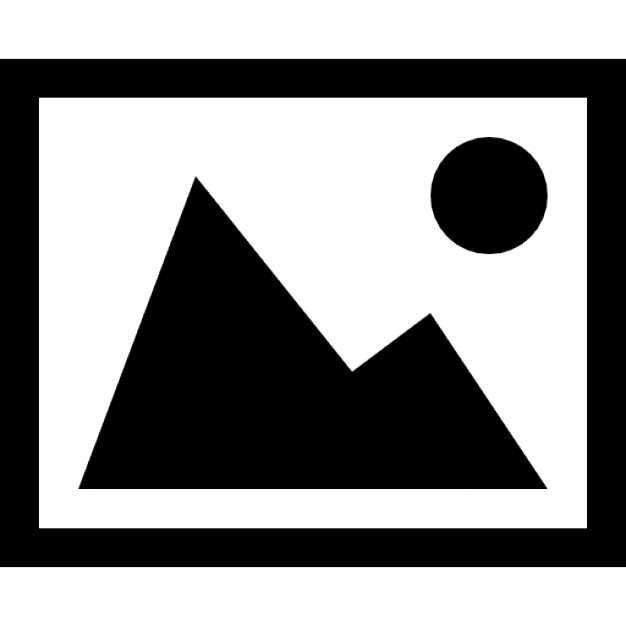
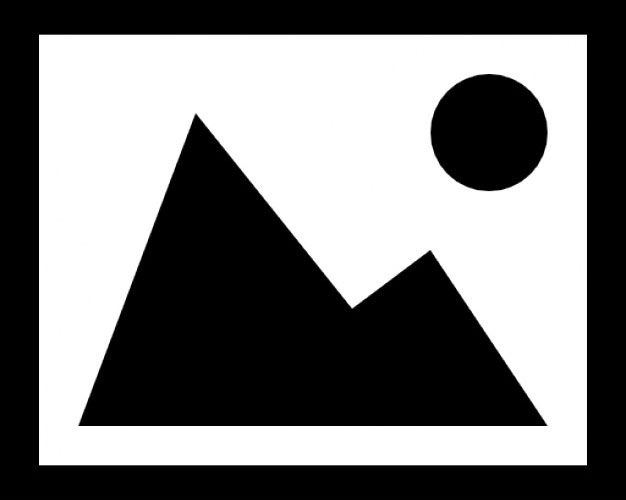
galerias

diff --git a/src/screens/galeria/index.js b/src/screens/galeria/index.js
@@ -1,11 +1,90 @@
-import React from 'react';
-import { View, Text } from 'react-native';
+import React, { useState } from 'react';
+import { View, Modal, TouchableOpacity } from 'react-native';
+import { SliderBox } from "react-native-image-slider-box";
+import { FontAwesome5 } from '@expo/vector-icons';
+import ImageZoom from 'react-native-image-zoom-viewer';
+
+// Componentes
+import Container from '../../components/container';
 
 function Galeria() {
+	const [visibleModal, setVisibleModal] = useState(false);
+	const [zoomImagen, setZoomImagen] = useState([]);
+
+	const EmptyImage = require('../../../assets/picture_icon.png');
+
+	const imagenes = [EmptyImage, EmptyImage, {uri: 'https://as.com/meristation/imagenes/2019/06/10/betech/1560195710_365328_1560195771_noticia_normal.jpg'}];
+
 	return (
-		<View style={{ flex: 1, alignItems: 'center', justifyContent: 'center' }}>
-			<Text>Galería</Text>
-		</View>
+		<Container>
+			<View style={{ flex: 1, alignItems: 'center', justifyContent: 'center' }}>
+				<SliderBox
+					onCurrentImagePressed={(index) => {
+						const imgRender = imagenes[index];
+						console.log('imagen', imgRender);
+						const imgSource = imgRender.uri ? [
+							{
+								url: imgRender.uri,
+							}
+						] : [
+							{
+								url: '',
+								props: {
+									// Or you can set source directory.
+									source: imgRender
+								}
+							}
+						]
+						setZoomImagen(imgSource)
+						setVisibleModal(true);
+					}}
+					images={imagenes}
+					dotColor={"#000"}
+					inactiveDotColor="#BBBBBB"
+					imageLoadingColor={"#000"}
+					paginationBoxVerticalPadding={20}
+					resizeMethod={'resize'}
+					resizeMode={'contain'}
+					paginationBoxStyle={{
+						position: "absolute",
+						bottom: 0,
+						padding: 0,
+						alignItems: "center",
+						alignSelf: "center",
+						justifyContent: "center",
+						paddingVertical: 10
+					}}
+					dotStyle={{
+						width: 10,
+						height: 10,
+						borderRadius: 5,
+						marginHorizontal: 0,
+						padding: 0,
+						margin: 0,
+						backgroundColor: "rgba(128, 128, 128, 0.92)"
+					}}
+					ImageComponentStyle={{borderRadius: 15, width: '90%', height: 400, marginTop: 5, padding: 20}}
+					imageLoadingColor="#2196F3"
+				/>
+			</View>
+			<Modal
+				visible				=	{visibleModal}
+				transparent			=	{true}
+				onRequestClose		=	{() => setVisibleModal(false)}
+				onBackButtonPress	=	{() => setVisibleModal(false)}>
+				<View style={{flex: 1, backgroundColor: '#000'}}>
+					<View style={{flex: 0.1, padding: 10, justifyContent: 'center', alignItems: 'flex-end'}}>
+						<TouchableOpacity onPress={() => setVisibleModal(false)}>
+							<FontAwesome5 name="times" size={35} color="#fff" />
+						</TouchableOpacity>
+					</View>
+					<ImageZoom
+						imageUrls 				=	{zoomImagen}
+						renderIndicator 		=	{() => null}
+						saveToLocalByLongPress	=	{false}/>
+				</View>
+			</Modal>
+		</Container>
 	);
 }
 

diff --git a/src/screens/garantias/etapas/Etapa1.js b/src/screens/garantias/etapas/Etapa1.js
@@ -1,6 +1,8 @@
 import React, { useState } from 'react';
-import { StatusBar, ScrollView, Text, View, TextInput, Image, TouchableOpacity } from 'react-native';
+import { StatusBar, ScrollView, Text, View, TextInput, Image, TouchableOpacity, Modal } from 'react-native';
 import { useRoute, useFocusEffect } from '@react-navigation/native';
+import { FontAwesome5 } from '@expo/vector-icons';
+import ImageZoom from 'react-native-image-zoom-viewer';
 
 // Componentes
 import SelectVivienda from '../../../components/select/SelectVivienda';
@@ -12,25 +14,18 @@ import BotonEnviar from '../../../components/boton-enviar/BotonEnviar';
 // Styles
 import TextStyle from '../../../styles/text';
 
-function _openCamara(navigation, index, imagen, borrarImagen) {
-	if (imagen) {
-		navigation.navigate('DetalleImagen', { imagenIndex: index, imagen, borrarImagen });
-		return;
-	}
-	if (navigation) {
-		navigation.navigate('Camara', { imagenIndex: index });
-	}
-}
-
 function Etapa1({navigation}) {
 
 	const [imagen1, setImagen1] = useState(null);
 	const [imagen2, setImagen2] = useState(null);
 	const [imagen3, setImagen3] = useState(null);
+	const [imagenIndex, setimagenIndex] = useState(null);
+	const [modalImagen, setModalImagen] = useState(false);
+	const [zoomImagen, setZoomImagen] = useState(null);
 	const route = useRoute();
 
-	function _borrarImagen(index) {
-		switch(index) {
+	function _borrarImagen() {
+		switch(imagenIndex) {
 			case 1: 
 				setImagen1(null);
 				break;
@@ -41,14 +36,28 @@ function Etapa1({navigation}) {
 				setImagen3(null);
 				break;
 		}
+		setModalImagen(false);
+		navigation.navigate('Camara', { imagenIndex });
+	}
+
+	function _openCamara(navigation, index, imagen) {
+		if (imagen) {
+			setModalImagen(true);
+			setZoomImagen(imagen);
+			setimagenIndex(index);
+			return;
+		}
+		if (navigation) {
+			navigation.navigate('Camara', { imagenIndex: index });
+		}
 	}
 
 	const ImagenButton = ({ navigation, index, imagen }) => {
 		const EmptyImage = require('../../../../assets/picture_icon.png');
-	
+
 		return (
 			<TouchableOpacity onPress={_openCamara.bind(this, navigation, index, imagen, _borrarImagen)}>
-				<Image source={imagen || EmptyImage} style={{width: 80, height: 80}}/>
+				<Image source={imagen || EmptyImage} style={{width: 100, height: 80}}/>
 			</TouchableOpacity>
 		)
 	}
@@ -76,22 +85,34 @@ function Etapa1({navigation}) {
 	return (
 		<ScrollView>
 			<Text style={TextStyle.EtapaTitulo}>Etapa 1</Text>
+
 			<View style={{height: 8}}/>
+
 			<SelectVivienda onChange = {(data) => console.log('SelectVivienda', data)}/>
+
 			<View style={{height: 8}}/>
+
 			<SelectArea onChange = {(data) => console.log('SelectArea', data)}/>
+
 			<View style={{height: 8}}/>
+
 			<SelectObjeto onChange = {(data) => console.log('SelectObjeto', data)}/>
+
 			<View style={{height: 8}}/>
+
 			<SelectProblema onChange = {(data) => console.log('SelectProblema', data)}/>
+
 			<View style={{height: 8}}/>
+
 			<TextInput
-				placeholder="< Escriba sus comentarios >"
+				placeholder="Escriba sus comentarios"
 				style={{borderRadius: 8, borderColor: '#000', borderWidth: 1, paddingVertical: 10, paddingHorizontal: 17, textAlignVertical: "top", fontSize: 14}}
 				multiline
 				numberOfLines={6}
 				maxLength={1500}/>
+
 			<View style={{height: 16}}/>
+
 			<View style={{flexDirection: 'row', justifyContent: 'center', width: '100%'}}>
 				<View style={{flexDirection: 'row', justifyContent: 'space-between', alignItems: 'center', width: '100%'}}>
 					<ImagenButton index = {1} imagen = {imagen1} navigation = {navigation}/>
@@ -99,10 +120,35 @@ function Etapa1({navigation}) {
 					<ImagenButton index = {3} imagen = {imagen3} navigation = {navigation}/>
 				</View>
 			</View>
+
 			<View style={{height: 32}}/>
+
 			<View style={{flexDirection: 'row', justifyContent: 'center'}}>
 				<BotonEnviar onSubmit = {(submit) => console.log(submit)}/>
 			</View>
+
+			<Modal
+				visible={modalImagen}
+				transparent={true}
+				onBackButtonPress={() => setModalImagen(false)}>
+				<View style={{flex: 1, backgroundColor: '#000'}}>
+					<View style={{flex: 0.1, padding: 10, justifyContent: 'center', alignItems: 'flex-end'}}>
+						<TouchableOpacity onPress={() => setModalImagen(false)}>
+							<FontAwesome5 name="times" size={35} color="#fff" />
+						</TouchableOpacity>
+					</View>
+					<ImageZoom
+						imageUrls = {zoomImagen? [ { url: zoomImagen.uri } ] : []}
+						renderIndicator = {() => null}
+						saveToLocalByLongPress={false}/>
+					<View style={{flexDirection: 'row', padding: 10, justifyContent: 'center', alignItems: 'center'}}>
+						<TouchableOpacity onPress={() => _borrarImagen()}>
+							<FontAwesome5 name="edit" size={35} color="#fff" />
+						</TouchableOpacity>
+					</View>
+				</View>
+			</Modal>
+
 		</ScrollView>
 	);
 }

diff --git a/src/navigation/AppStack.js b/src/navigation/AppStack.js
@@ -14,7 +14,6 @@ import BottomNavigator from './BottomTabNavigator';
 import Notificaciones from '../screens/notificaciones';
 import NuevaGarantia from '../screens/garantias/Nueva';
 import DetalleGarantia from '../screens/garantias/Detalle';
-import DetalleImagen from '../screens/detalle-imagen';
 import Camara from '../screens/camara';
 
 function getHeaderTitle(route) {
@@ -69,9 +68,6 @@ function AppStack(props) {
 				options={{
 					header: () => null
 				}}/>
-			<Stack.Screen
-				name="DetalleImagen"
-				component={DetalleImagen}/>
 		</Stack.Navigator>
 	);
 }

diff --git a/src/screens/camara/index.js b/src/screens/camara/index.js
@@ -3,6 +3,7 @@ import { View, Text, TouchableOpacity, StatusBar, Linking, Platform, Image } fro
 import { Camera } from 'expo-camera';
 import { useFocusEffect, useNavigation, useRoute } from '@react-navigation/native';
 import { FontAwesome5, MaterialIcons } from '@expo/vector-icons';
+import ImageViewer from 'react-native-image-zoom-viewer';
 
 // Componentes
 import Preview from './preview';
@@ -14,7 +15,7 @@ import Container from '../../components/container';
 let camara = null;
 
 const Camara = () => {
-	// StatusBar.setBarStyle('light-content');
+	StatusBar.setBarStyle('light-content');
 
 	const navigation = useNavigation();
 	const [hasPermission, setHasPermission] = useState(null);